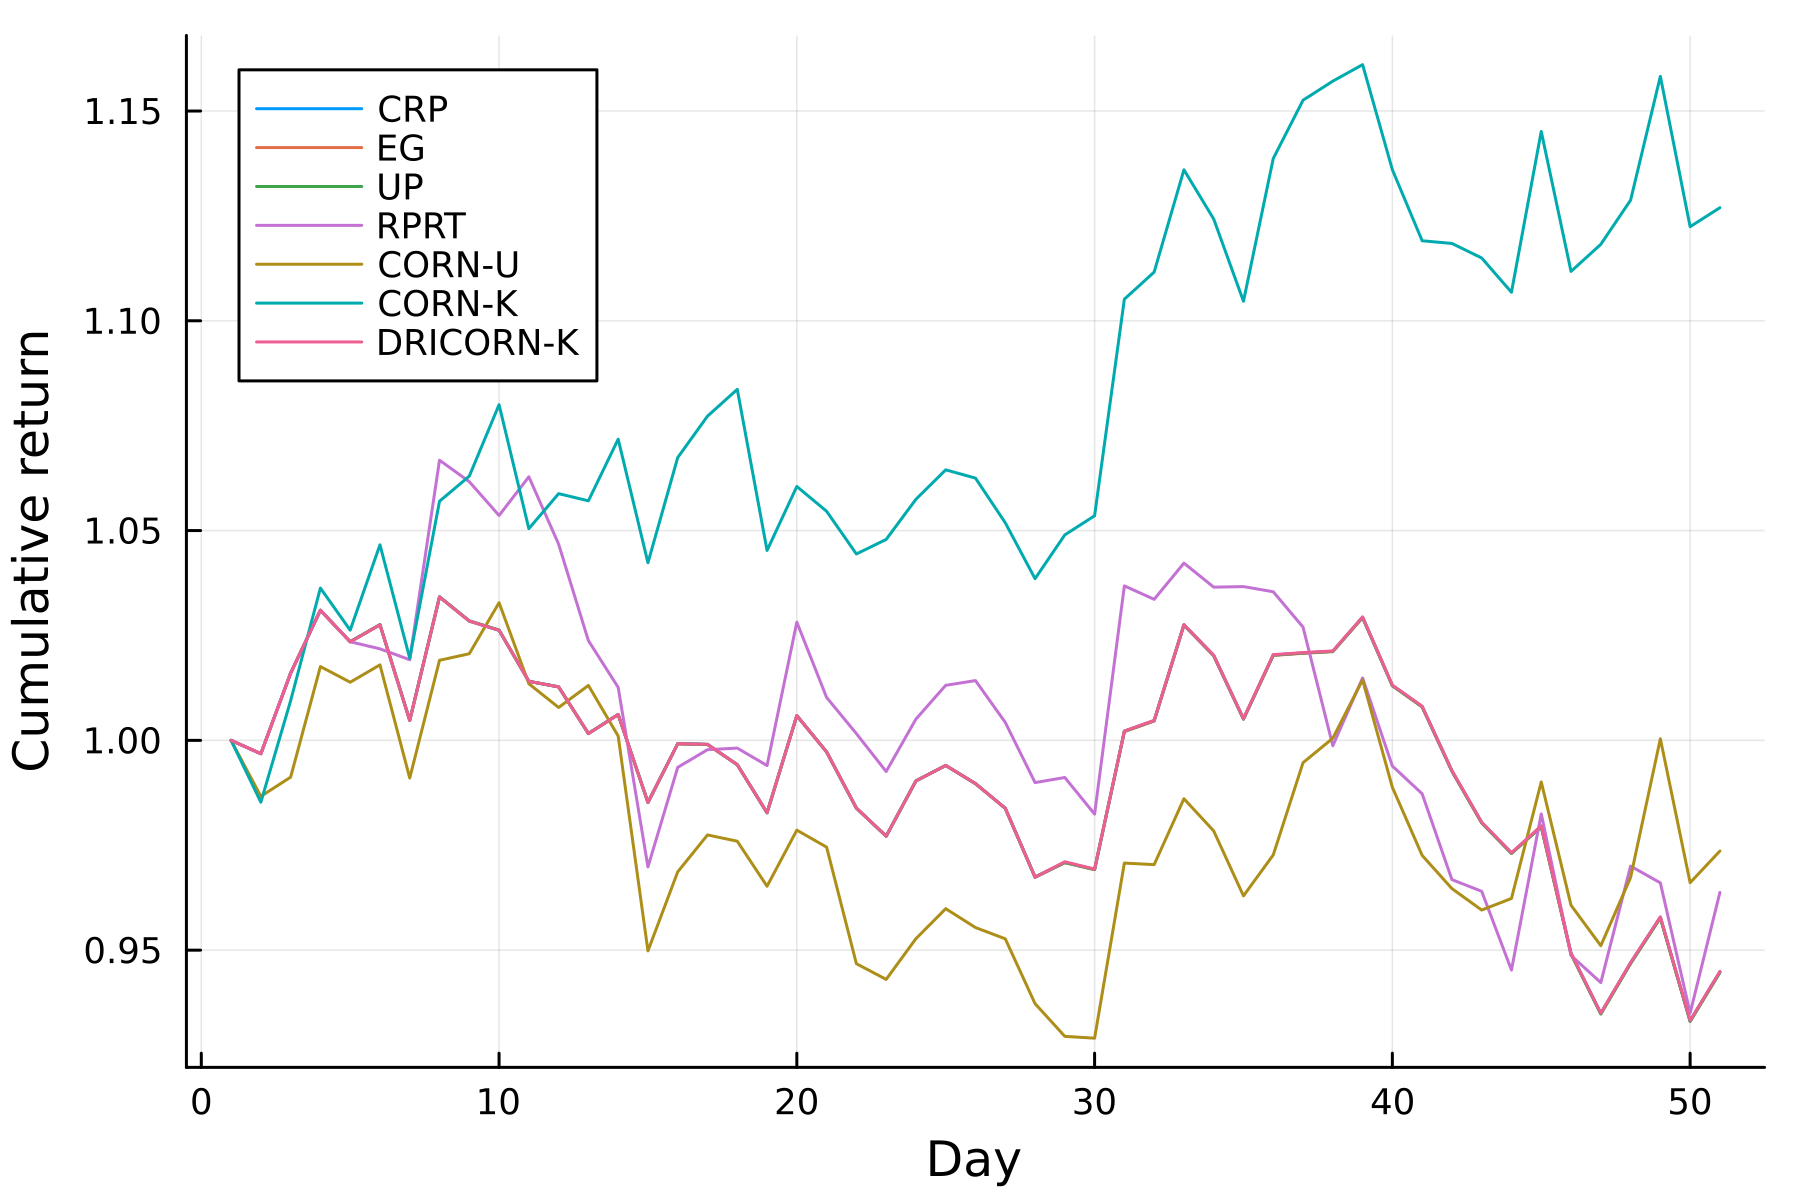
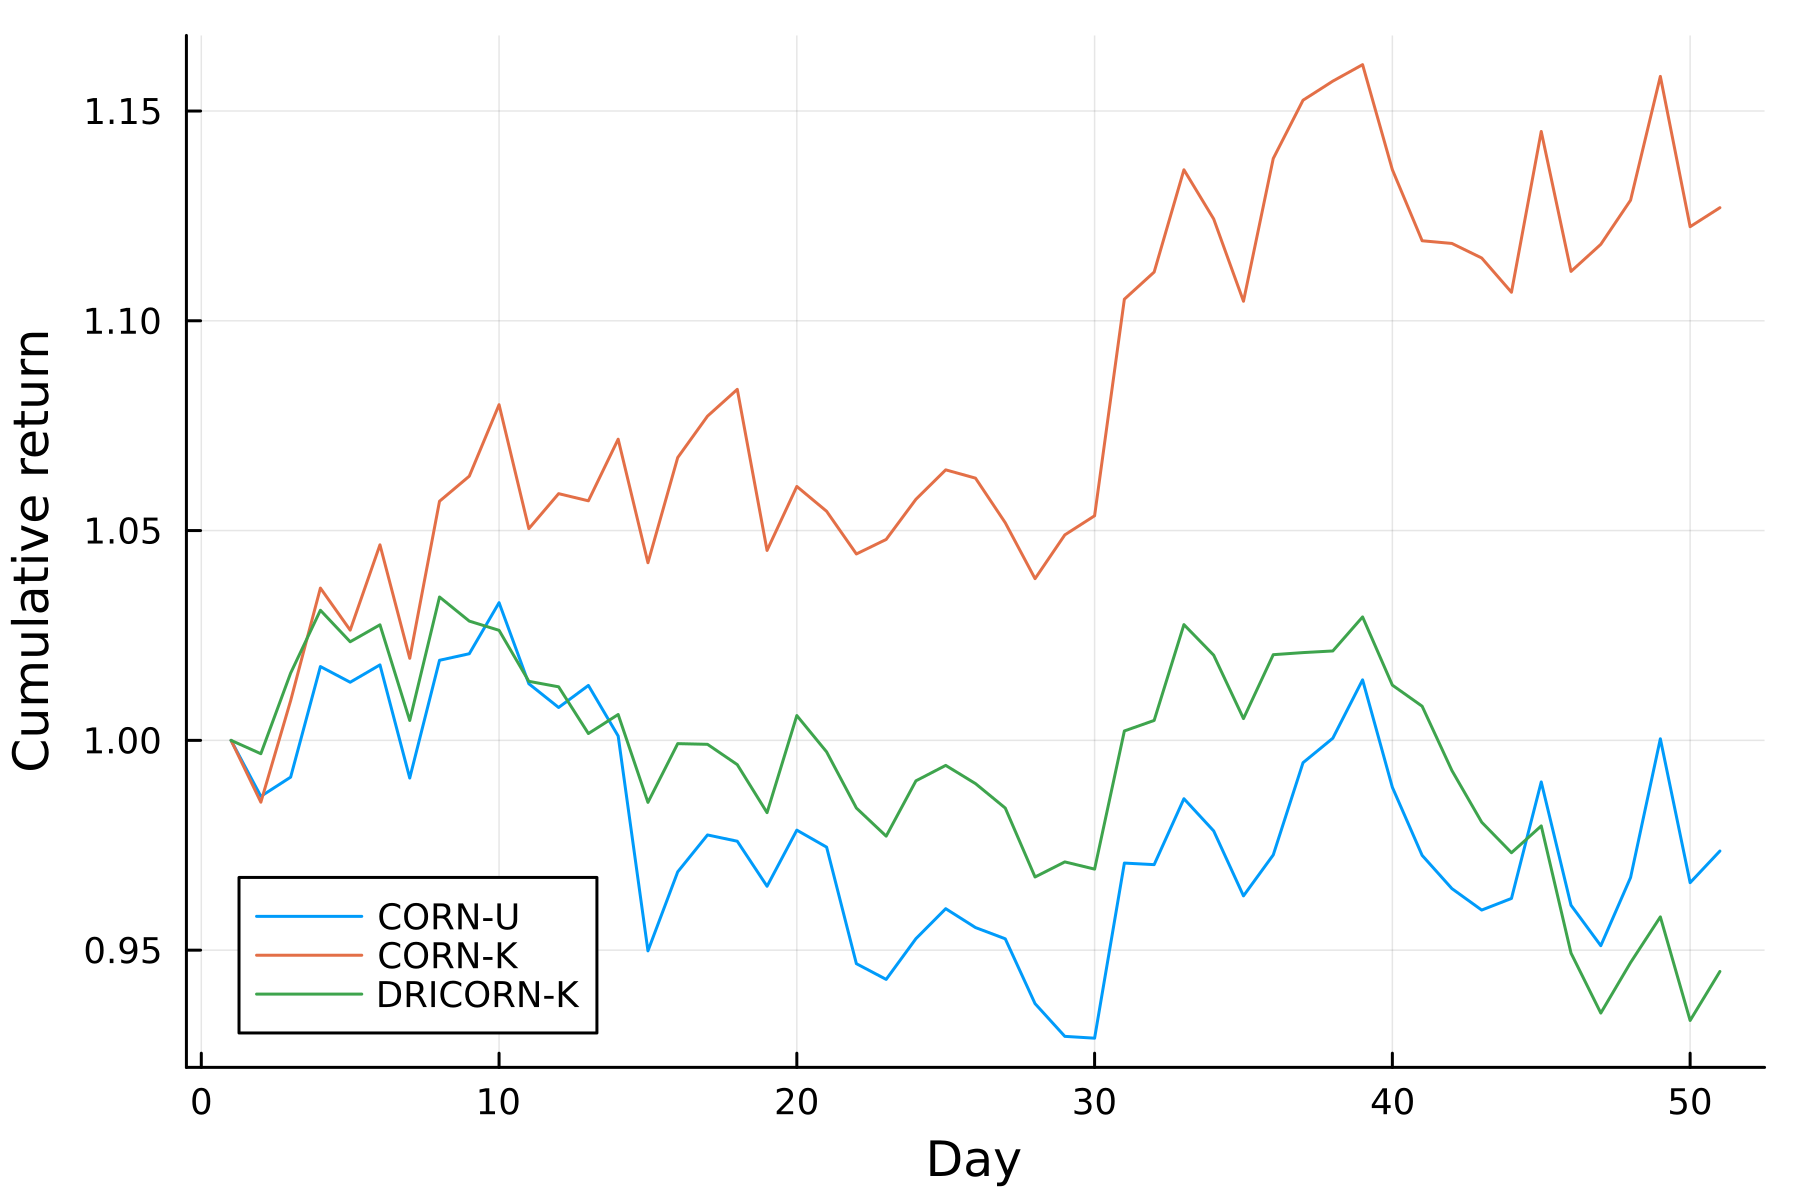
Documentation improved 🛠

diff --git a/docs/src/index.md b/docs/src/index.md
@@ -1,5 +1,5 @@
 ```@meta
-DocTestSetup  = quote
+DocTestSetup = quote
     using OnlinePortfolioSelection
 end
 ```
@@ -7,7 +7,7 @@ end
 # Introduction
 
 Online Portfolio Selection (OPS) strategies are trading algorithms that sequentially allocate capital among a group of assets to maximize the final returns of the investment. It is a fundamental problem in computational finance that has been extensively studied across several research communities, including finance, statistics, artificial intelligence, machine learning, and data mining. From an online machine learning perspective, it is formulated as a sequential decision problem and there are a variety of state-of-the-art approaches that have been developed to solve it. These approaches are grouped into several major categories, including benchmarks, “Follow-the-Winner” approaches, “Follow-the-Loser” approaches, “Pattern-Matching” based approaches, and "Meta-Learning" Algorithms[1](https://arxiv.org/abs/1212.2129).
-This package provides an efficient implementation of OPS algorithms. The algorithms are implemented in Julia in a fully type-stable manner. All the algorithms return an object of type `OPSAlgorithm` which can be used to query the portfolio weights, number of assets,  cumulative return of portfolio, and the name of the algorithm. Seven algorithms are implemented so far and more will be added in the future. The available algorithms are:
+This package provides an efficient implementation of OPS algorithms. The algorithms are implemented in Julia in a fully type-stable manner. All the algorithms return an object of type `OPSAlgorithm` which can be used to query the portfolio weights, number of assets, and the name of the algorithm. Seven algorithms are implemented so far and more will be added in the future. The available algorithms are:
 
 1. Constant Rebalanced Portfolio (CRP)
 2. Exponential Gradient (EG)
@@ -19,10 +19,15 @@ This package provides an efficient implementation of OPS algorithms. The algorit
 
 # Installation
 
-The dev version of the package can be installed by running the following command in the Julia REPL after pressing `]`:
+The latest stable version of the package can be installed by running the following command in the Julia REPL after pressing `]`:
 
 ```julia
-pkg> add https://github.com/shayandavoodii/OPS.jl.git
+pkg> add OnlinePortfolioSelection
+```
+
+The dev version can be installed usint the following command:
+```julia
+pkg> add https://github.com/shayandavoodii/OnlinePortfolioSelection.jl.git
 ```
 
 # Quick Start
@@ -30,12 +35,14 @@ pkg> add https://github.com/shayandavoodii/OPS.jl.git
 The package can be imported by running the following command in the Julia REPL:
 
 ```julia
-julia> using OPS
+julia> using OnlinePortfolioSelection
 ```
 
 One can perform several strategies on a given dataset and analyse and compare the results. The following code snippet shows how to perform the strategies on a given dataset and compare the results:
 
 ```julia
+juila> using CSV, DataFrames
+
 # read adjusted close prices
 julia> pr = CSV.read("data\\sp500.csv", DataFrame) |> Matrix |> permutedims;
 
@@ -50,31 +57,30 @@ julia> size(pr)
 The dataset contains the adjusted close prices of 24 stocks in the S&P 500 within 1276 trading days. Now, suppose we want to perform the strategies on the last 50 days of the dataset with default arguments:
 
 ```julia
-julia> crp = CRP(pr[:, end-50:end]);
+julia> m_corn_u = cornu(pr, 50, 3);
 
-julia> eg = EG(pr[:, end-50:end]);
+julia> m_corn_k = cornk(pr, 50, 3, 2, 2);
 
-julia> up = UP(pr[:, end-50:end]);
-
-julia> rprt = RPRT(pr[:, end-50:end]);
-
-julia> corn_u = CORNU(pr, 50, 3);
-
-julia> corn_k = CORNK(pr, 50, 3, 2, 2);
-
-juila> drcorn_k = DRICORNK(pr, market_pr, 50, 3, 2, 2);
+juila> m_drcorn_k = dricornk(pr, market_pr, 50, 5, 5, 5);
 ```
 
-Now, let's plot the trend of daily cumulative budgets of each algorithm:
+Now, let's plot the trend of daily cumulative budgets of each algorithm. For this, we have to calculate it using the achieved portfolio weights and relative prices in the same time period:
 
 ```julia
+# calculate the relative prices
+julia> rel_pr = pr[:, 2:end] ./ pr[:, 1:end-1];
+
+julia> models = [m_corn_u, m_corn_k, m_drcorn_k];
+
+# calculate the cumulative budgets
+julia> budgets = [sn(model.b, rel_pr[:, end-49:end]) for model in models];
+
 julia> using Plots
 
 julia> plot(
-            [crp.budgets, eg.budgets, up.budgets, rprt.budgets,
-            corn_u.budgets, corn_k.budgets, drcorn_k.budgets], 
-            label = ["CRP" "EG" "UP" "RPRT" "CORN-U" "CORN-K" "DRICORN-K"], 
-            xlabel = "Day", ylabel = "Cumulative return", legend = :topleft
+            budgets, 
+            label = ["CORN-U" "CORN-K" "DRICORN-K"], 
+            xlabel = "Day", ylabel = "Cumulative return", legend = :bottomleft,
        )
 ```
 
@@ -85,9 +91,7 @@ julia> plot(
 The plot shows that the cumulative return of CORN-K outperforms the other algorithms almost all the time. Note that the initial investment for all of the algorithms is set to 1 (this can be modified by setting the keyword argument `init_budg` for each algorithm).Now, let's investigate the performance of the algorithms in terms of some of prominent performance metrics:
 
 ```julia
-julia> rel_pr = pr[:, 2:end] ./ pr[:, 1:end-1];
-
-julia> all_metrics = OPSMetrics.([crp.b, eg.b, up.b, rprt.b, corn_u.b, corn_k.b, drcorn_k.b], Ref(rel_pr));
+julia> all_metrics = OPSMetrics.([m_corn_u.b, m_corn_k.b, m_drcorn_k.b], Ref(rel_pr));
 ```
 
 Now, one can embed the metrics in a DataFrame and compare the performance of the algorithms with respect to each other:
@@ -98,24 +102,20 @@ julia> using DataFrames
 julia> nmodels = length(all_metrics);
 
 julia> comp_algs = DataFrame(
-           Algorithm = ["CRP", "EG", "UP", "RPRT", "CORN-U", "CORN-K", "DRICORN-K"],
+           Algorithm = ["CORN-U", "CORN-K", "DRICORN-K"],
            APY = [all_metrics[i].APY for i = 1:nmodels],
            Ann_Sharpe = [all_metrics[i].Ann_Sharpe for i = 1:nmodels],
            Ann_Std = [all_metrics[i].Ann_Std for i = 1:nmodels],
            Calmar = [all_metrics[i].Calmar for i = 1:nmodels],
            MDD = [all_metrics[i].MDD for i = 1:nmodels],
        )
-7×6 DataFrame
+3×6 DataFrame
  Row │ Algorithm  APY        Ann_Sharpe  Ann_Std   Calmar    MDD       
      │ String     Float64    Float64     Float64   Float64   Float64   
 ─────┼─────────────────────────────────────────────────────────────────
-   1 │ CRP        -0.289228   -1.41586   0.218403  -2.96123  0.0976717
-   2 │ EG         -0.287809   -1.409     0.218459  -2.95441  0.0974169
-   3 │ UP         -0.288415   -1.41139   0.218519  -2.95588  0.0975733
-   4 │ RPRT       -0.996266   -4.70081   0.21619   -1.4582   0.683216
-   5 │ CORN-U     -0.126009   -0.505762  0.288691  -1.25383  0.100499
-   6 │ CORN-K      0.826495    2.48378   0.324705  17.688    0.0467263
-   7 │ DRICORN-K  -0.248369   -1.20917   0.221946  -2.54495  0.0975929
+   1 │ CORN-U     -0.126009   -0.505762  0.288691  -1.25383  0.100499
+   2 │ CORN-K      0.826495    2.48378   0.324705  17.688    0.0467263
+   3 │ DRICORN-K  -0.248393   -1.20933   0.221934  -2.54505  0.0975985
 ```
 
-The `comp_algs` shows that CORN-K outperforms the other algorithms in terms of annualizeed percentage yield (APY), annualized Sharpe ratio, Calmar ratio, and maximum drawdown (MDD). However, the annualized standard deviation of CORN-K is higher than the other algorithms in this dataset.
+The `comp_algs` shows that CORN-K outperforms the other algorithms in terms of annualizeed percentage yield (APY), annualized Sharpe ratio, Calmar ratio, and maximum drawdown (MDD). However, the annualized standard deviation of CORN-K is higher than the other algorithms in this dataset. Note that these metrics can be calculated individually by calling the corresponding [`sn`](@ref), [`apy`](@ref), [`ann_sharpe`](@ref), [`ann_std`](@ref), [`calmar`](@ref), and [`mdd`](@ref) functions.

diff --git a/docs/src/FW.md b/docs/src/FW.md
@@ -4,11 +4,139 @@ Follow the Winner (FW) strategies believe that the best performing asset in the 
 2. Exponential Gradient (EG)
 
 ## Universal Portfolio
-Universal Portfolio (UP) is a FW strategy proposed by [Cover (1991)](https://doi.org/10.1111/j.1467-9965.1991.tb00002.x). UP aims to maximize the cumulative reurn of the portfolio during the investment horizon.
+Universal Portfolio (UP) is a FW strategy proposed by [Cover (1991)](https://doi.org/10.1111/j.1467-9965.1991.tb00002.x). The Universal Portfolio algorithm is a portfolio selection algorithm from the field of machine learning and information theory. UP aims to maximize the cumulative reurn of the portfolio during the investment horizon. The algorithm is based on the performance of the stock market on each day and the proportion of wealth invested in each stock. 
 
-See [UP](https://shayandavoodii.github.io/OPS.jl/dev/funcs/#OPS.UP-Tuple{Matrix{Float64}}).
+See [`up`](@ref).
+
+### Run UP
+**Note:** This package is meant to be used by researchers **NOT FOR MARKET PRACTITIONERS**.
+Let's run the algorithm on the real market data. The data is collected as noted in the ["Fetch Financial Data"]() section.
+
+Let's run the algorithm on the given data (named as `prices`):
+
+```julia
+juila> using OnlinePortfolioSelection
+
+julia> size(prices)
+(17, 5)
+
+# OnlinePortfolioSelection suppose that the data is in the form of a matrix
+# where each row is the price vector of the assets at a specific time period.
+julia> prices = prices |> permutedims;
+
+# Let's run the algorithm on the last 5 days of the data.
+julia> m_up = up(prices[:, end-4:end], eval_points=100);
+
+juila> m_up.b
+5×5 Matrix{Float64}:
+ 0.2  0.216518  0.216638  0.21681   0.216542
+ 0.2  0.203395  0.203615  0.203754  0.203528
+ 0.2  0.191899  0.191793  0.192316  0.192473
+ 0.2  0.193023  0.192302  0.191687  0.19208
+ 0.2  0.195164  0.195652  0.195433  0.195377
+```
+
+One can calculate the cumulative wealth during the investment period by using the [`sn`](@ref) function:
+
+```julia
+julia> rel_price = prices[:, 2:end] ./ prices[:, 1:end-1];
+
+julia> sn(m_up.b, rel_price)
+6-element Vector{Float64}:
+ 1.0
+ 0.9879822623031318
+ 0.9856240412854884
+ 0.9874863498385578
+ 0.9778277061434468
+ 0.9718529924971879
+```
+
+The result indicates that if we had invested in the given period, we would have lost ~2.8% of our wealth. Note that [`sn`](@ref) automatically takes the last 5 relative prices in this case.
+Now, let's investiagte the performance of the algorithm according to some of the prominent metrics:
+
+```julia
+julia> results = OPSMetrics(m_up.b, rel_price)
+
+            Cumulative Return: 0.972
+                          APY: -0.763
+Annualized Standard Deviation: 0.088
+      Annualized Sharpe Ratio: -8.857
+             Maximum Drawdown: 0.028
+                 Calmar Ratio: -27.101
+
+julia> results.
+APY         Ann_Sharpe  Ann_Std     Calmar      MDD         Sn
+
+julia> results.MDD
+0.02814700750281207
+```
+
+It is worht mentioning that each metric can be accessed individually by writing `results.` and pressing `Tab` key. Note that one can individually investigate the performance of the algorithm regarding each metric. See [`sn`](@ref), [`ann_std`](@ref), [`apy`](@ref), [`ann_sharpe`](@ref), [`mdd`](@ref), and [`calmar`](@ref).
 
 ## Exponential Gradient
-Exponential Gradient (EG) is a FW strategy proposed by [Helmbold et al. (1998)](https://doi.org/10.1007/3-540-49257-7_5). Authors claim that EG can achieve almost the same wealth as the best constantrebalanced portfolio (BCRP) determined in hindsight from the actual market outcomes.
+Exponential Gradient (EG) is a FW strategy proposed by [Helmbold et al. (1998)](https://onlinelibrary.wiley.com/doi/10.1111/1467-9965.00058). Authors claim that EG can achieve almost the same wealth as the best constantrebalanced portfolio (BCRP) determined in hindsight from the actual market outcomes. the algorithm is very simple to implement and requires only constant storage and computing time per stock in each trading period.
 
-See [EG](https://shayandavoodii.github.io/OPS.jl/dev/funcs/#OPS.EG-Tuple{Matrix{Float64}}).
+See [`EG`](@ref).
+
+### Run EG
+
+Let's run the algorithm on the real market data. The data is collected as noted in the ["Fetch Financial Data"]() section.
+
+```julia
+juila> using OnlinePortfolioSelection
+
+julia> size(prices)
+(17, 5)
+
+# OnlinePortfolioSelection suppose that the data is in the form of a matrix
+# where each row is the price vector of the assets at a specific time period.
+julia> prices = prices |> permutedims;
+
+# Let's run the algorithm on the last 5 days of the data.
+julia> m_eg = eg(prices[:, end-4:end], eta=0.02);
+
+juila> m_eg.b
+5×5 Matrix{Float64}:
+ 0.2  0.200001  0.200016  0.20003   0.199997
+ 0.2  0.200049  0.200073  0.200087  0.200064
+ 0.2  0.19999   0.199973  0.200029  0.200051
+ 0.2  0.199937  0.199846  0.19978   0.199827
+ 0.2  0.200023  0.200092  0.200074  0.200061 
+```
+
+One can calculate the cumulative wealth during the investment period by using the [`sn`](@ref) function:
+
+```julia
+julia> rel_price = prices[:, 2:end] ./ prices[:, 1:end-1];
+
+julia> sn(m_eg.b, rel_price)
+6-element Vector{Float64}:
+ 1.0
+ 0.9879822623031318
+ 0.9854825989102248
+ 0.98713136445759
+ 0.9773624367829401
+ 0.9716549466747438
+```
+
+The result indicates that if we had invested in the given period, we would have lost ~2.8% of our wealth. Note that [`sn`](@ref) automatically takes the last 5 relative prices in this case.
+Now, let's investiagte the performance of the algorithm according to some of the prominent metrics:
+
+```julia
+julia> results = OPSMetrics(m_eg.b, rel_price)
+
+            Cumulative Return: 0.972
+                          APY: -0.765
+Annualized Standard Deviation: 0.087
+      Annualized Sharpe Ratio: -9.005
+             Maximum Drawdown: 0.028
+                 Calmar Ratio: -26.9
+
+julia> results.
+APY         Ann_Sharpe  Ann_Std     Calmar      MDD         Sn
+
+julia> results.MDD
+0.028345053325256164
+```
+
+It is worht mentioning that each metric can be accessed individually by writing `results.` and pressing `Tab` key. Note that one can individually investigate the performance of the algorithm regarding each metric. See [`sn`](@ref), [`ann_std`](@ref), [`apy`](@ref), [`ann_sharpe`](@ref), [`mdd`](@ref), and [`calmar`](@ref).

diff --git a/docs/src/benchmark.md b/docs/src/benchmark.md
@@ -1,4 +1,66 @@
 # Benchmark Strategies
 Some strategies in the context of online portfolio selection are considered as benchmark strategies. The simplest benchmark strategy is the Buy and Hold (BH) strategy which is called as the *market strategy*. The BAH model invests equally in m assets at the beginning and remains unchanged during the next periods, thus the weights of assets change passively with their price variations. A special BAH model, the Best-Stock (BS), invests all the capital into the best asset over the periods which is an optimal BAH in hindsight. Overall, the Benchmark portfolio selection models are quite simple because they do not adopt complex or sophisticated techniques via statistics and machine learning to explore the patterns within the data. Thus they are often taken as the baselines for performance comparison with new designed models. Another benchmark strategy is the Constant Rebalanced Portfolio (CRP) which assigns a fixed weight to each asset throughout a given period.
 
-See [CRP](https://shayandavoodii.github.io/OPS.jl/dev/funcs/#OPS.CRP-Union{Tuple{Matrix{T}},%20Tuple{T}}%20where%20T%3C:Float64).
+See [`crp`](@ref).
+
+### Run CRP
+Let's run the algorithm on the real market data. Assume the data (named as `prices`) is collected as noted in the ["Fetch Financial Data"]() section.
+
+```julia
+juila> using OnlinePortfolioSelection
+
+julia> size(prices)
+(17, 5)
+
+# OnlinePortfolioSelection suppose that the data is in the form of a matrix
+# where each row is the price vector of the assets at a specific time period.
+julia> prices = prices |> permutedims;
+
+# Let's run the algorithm on the last 5 days of the data.
+julia> m_crp = crp(prices[:, end-4:end]);
+
+juila> m_crp.b
+5×5 Matrix{Float64}:
+ 0.2  0.2  0.2  0.2  0.2
+ 0.2  0.2  0.2  0.2  0.2
+ 0.2  0.2  0.2  0.2  0.2
+ 0.2  0.2  0.2  0.2  0.2
+ 0.2  0.2  0.2  0.2  0.2
+```
+
+One can calculate the cumulative wealth during the investment period by using the [`sn`](@ref) function:
+
+```julia
+julia> rel_price = prices[:, 2:end] ./ prices[:, 1:end-1];
+
+julia> sn(m_crp.b, rel_price)
+6-element Vector{Float64}:
+ 1.0
+ 0.9879822623031318
+ 0.9854808899164217
+ 0.9871240426268018
+ 0.977351149446221
+ 0.9716459683279461
+```
+
+The result indicates that if we had invested in the given period, we would have lost ~2.8% of our capital. Note that [`sn`](@ref) automatically takes the last 5 relative prices in this case.
+Now, let's investiagte the performance of the algorithm according to some of the prominent metrics:
+
+```julia
+julia> results = OPSMetrics(m_crp.b, rel_price)
+
+            Cumulative Return: 0.972
+                          APY: -0.765
+Annualized Standard Deviation: 0.087
+      Annualized Sharpe Ratio: -9.008
+             Maximum Drawdown: 0.028
+                 Calmar Ratio: -26.993
+
+julia> results.
+APY         Ann_Sharpe  Ann_Std     Calmar      MDD         Sn
+
+julia> results.MDD
+0.02835403167205386
+```
+
+It is worht mentioning that each metric can be accessed individually by writing `results.` and pressing `Tab` key. Note that one can individually investigate the performance of the algorithm regarding each metric. See [`sn`](@ref), [`ann_std`](@ref), [`apy`](@ref), [`ann_sharpe`](@ref), [`mdd`](@ref), and [`calmar`](@ref).
